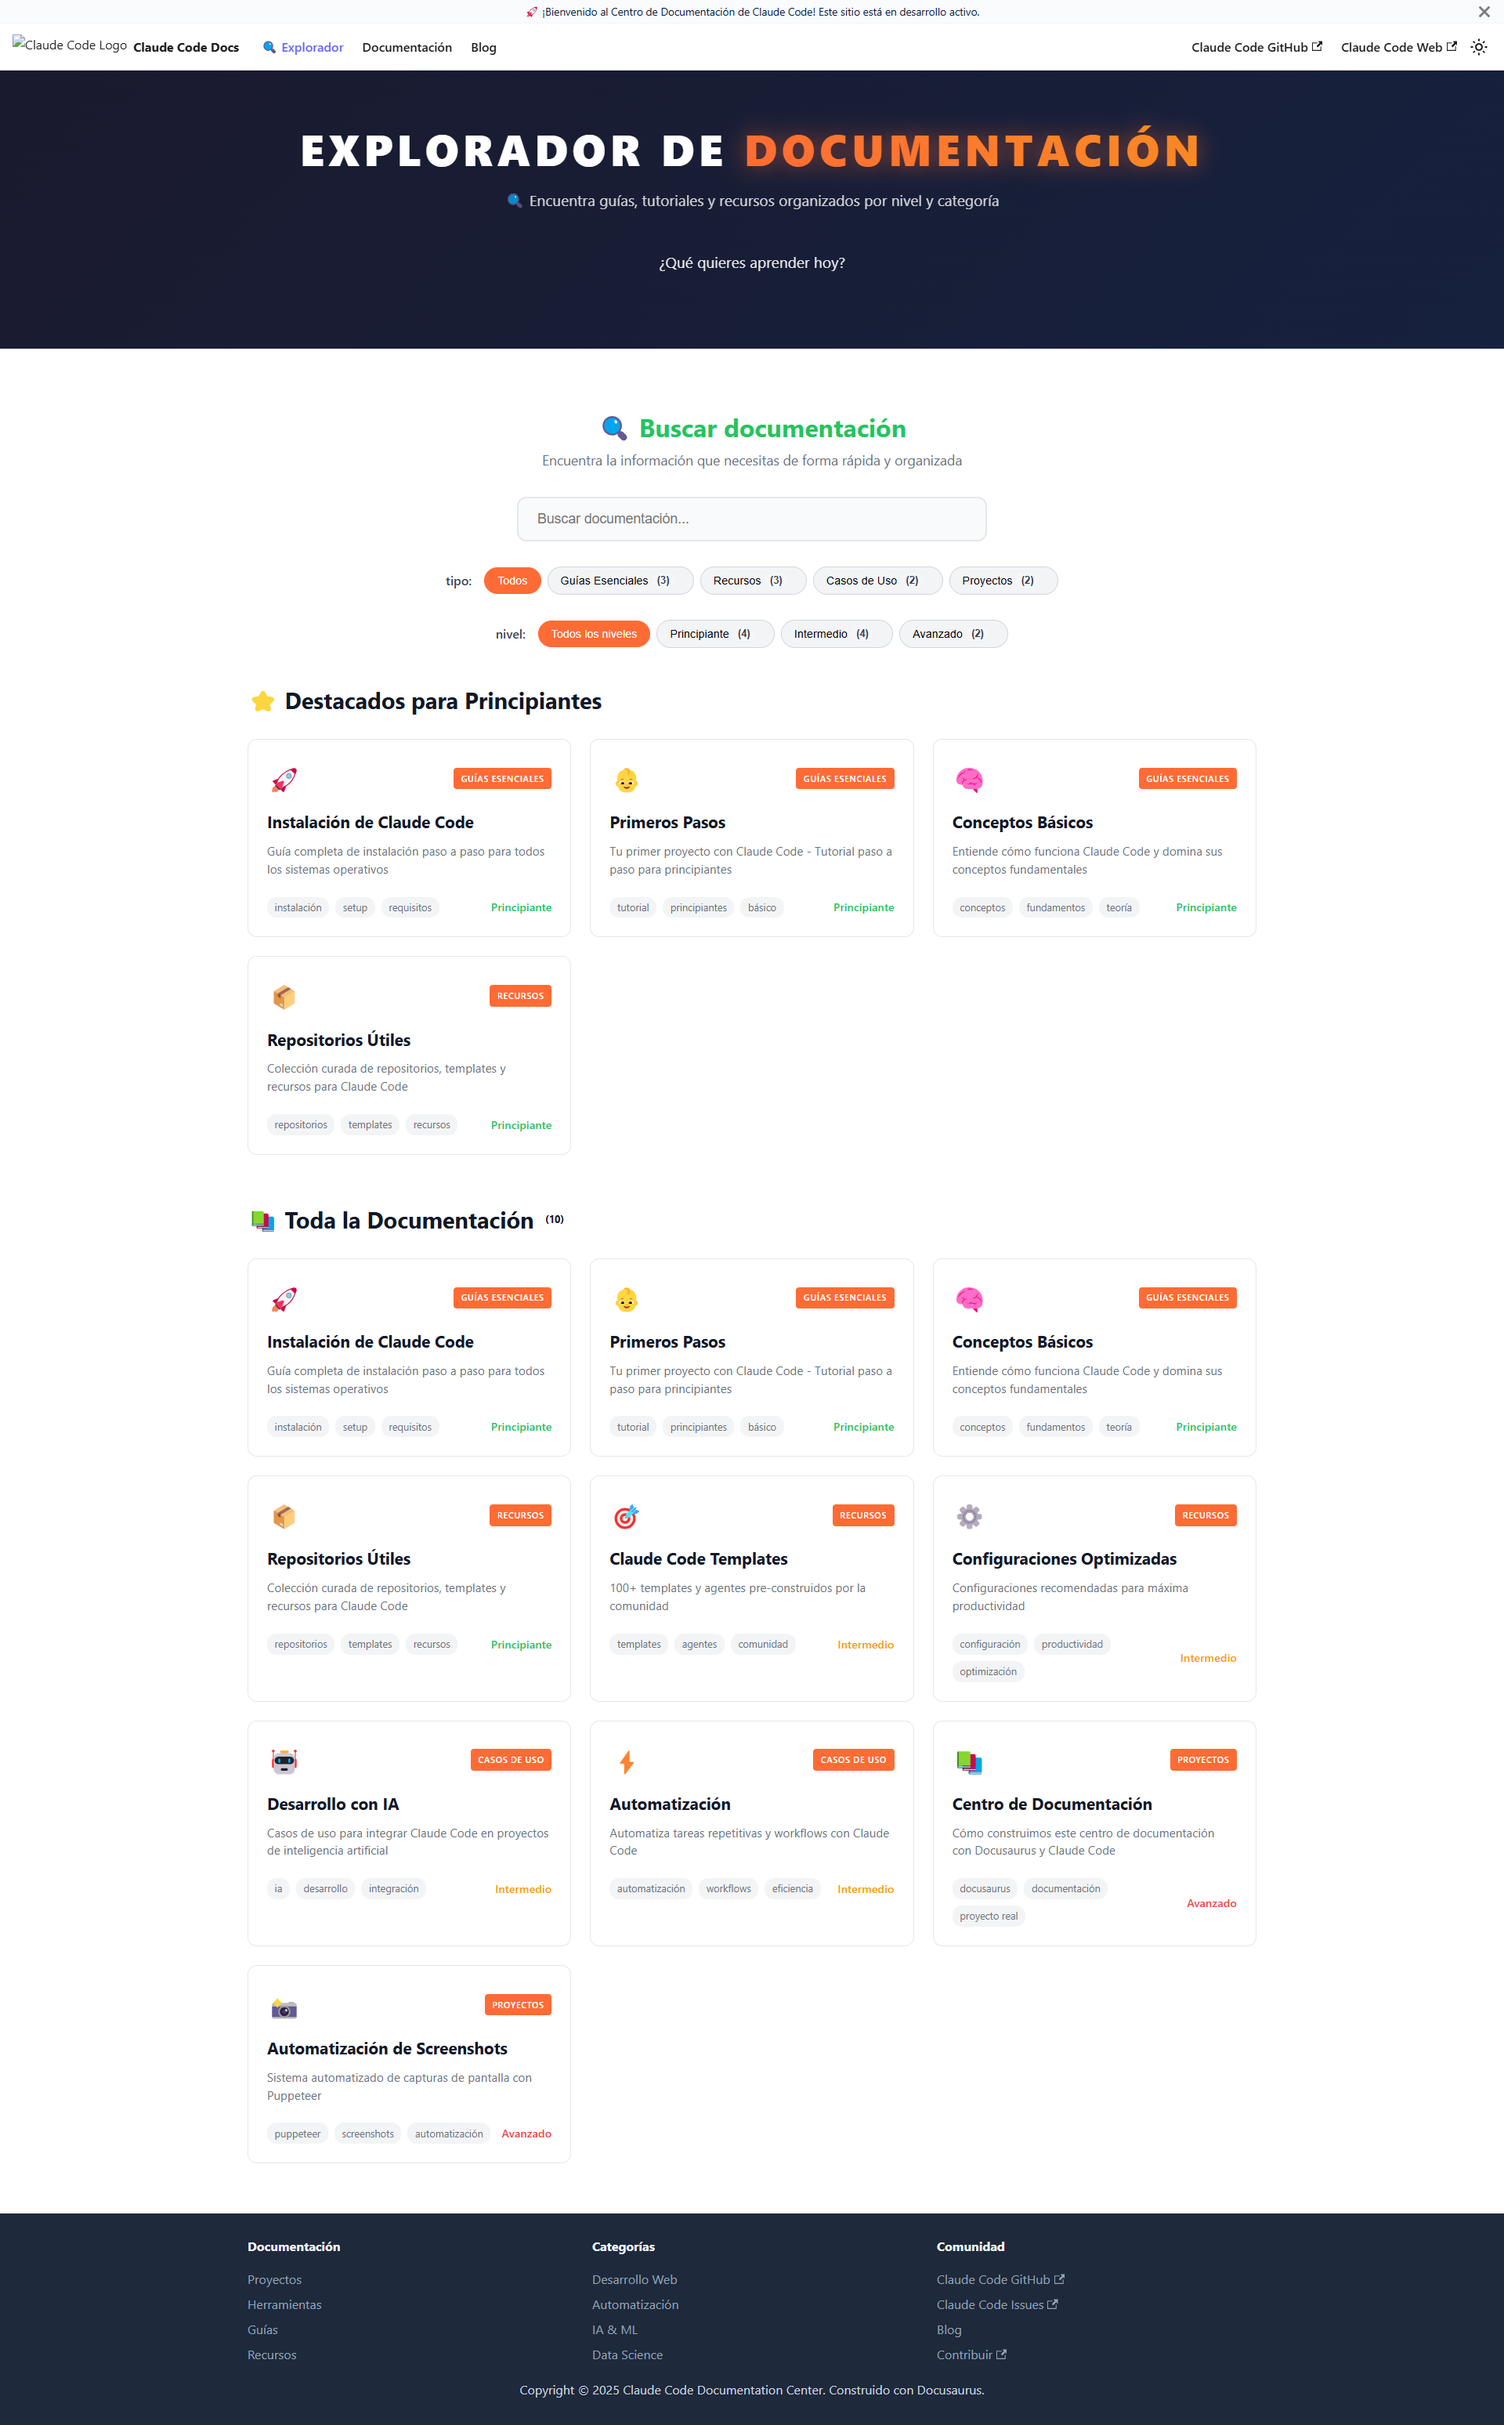
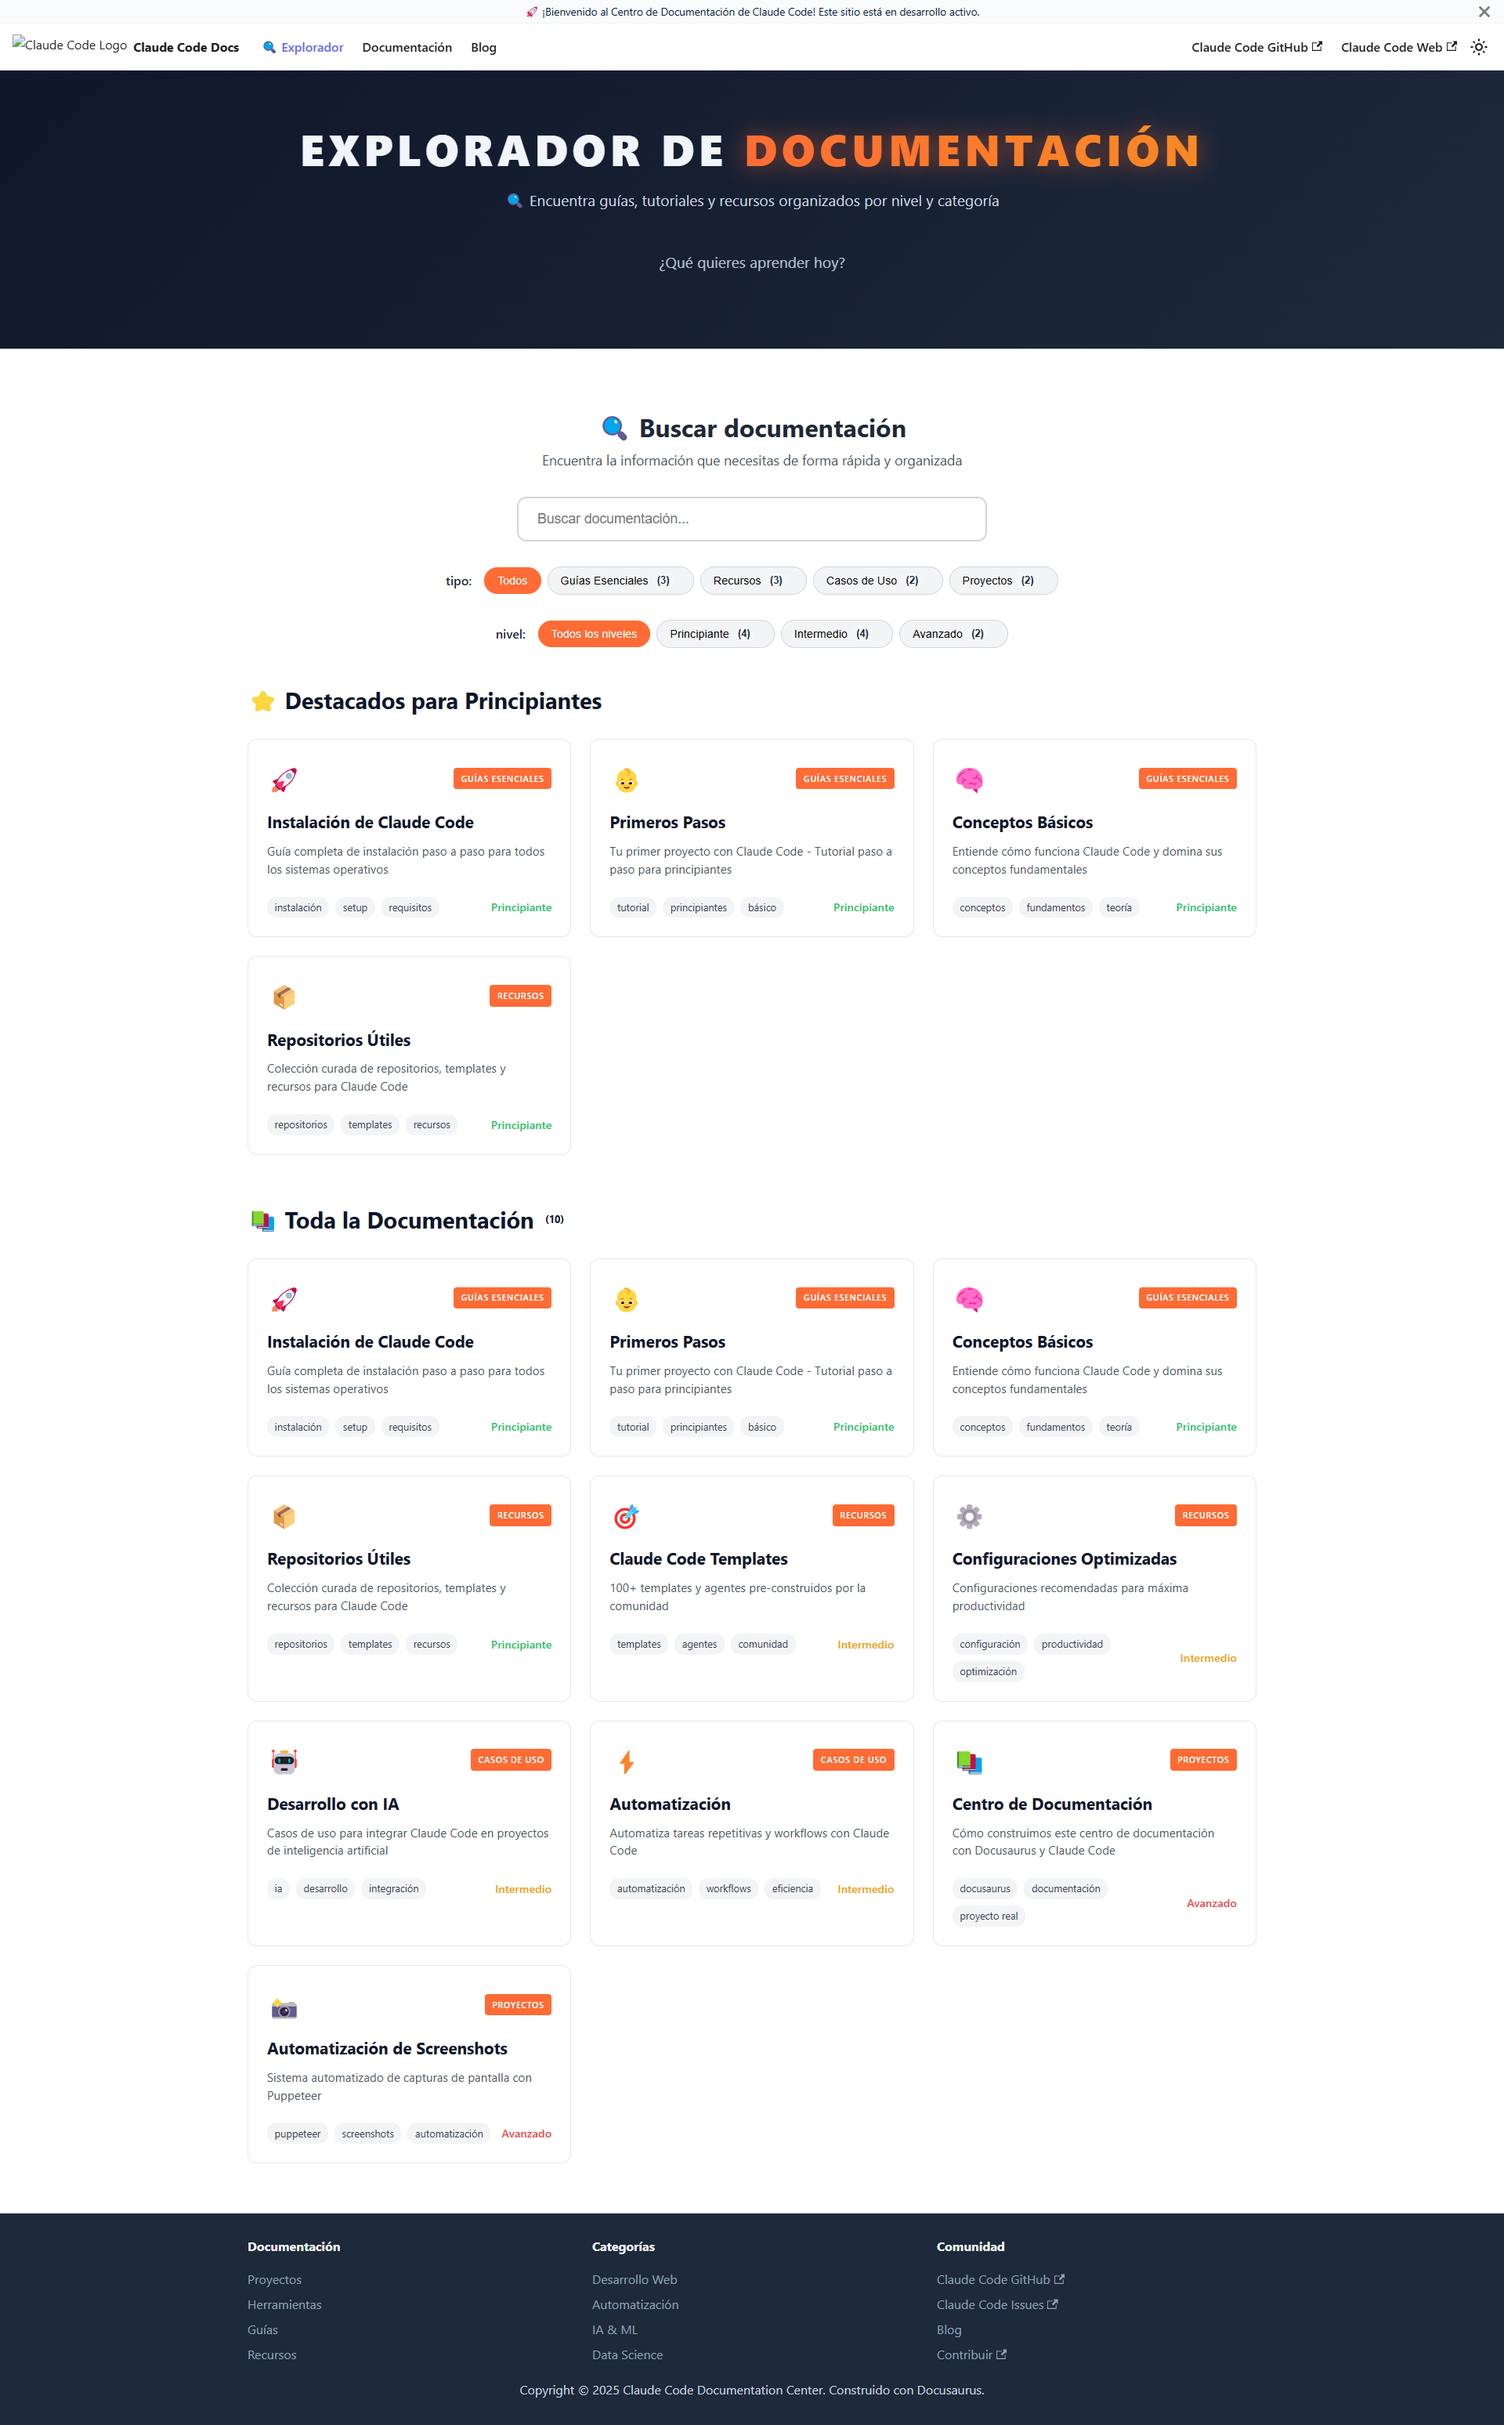
🎨 Fix explorador color consistency and contrast
## Mejoras Implementadas

### Esquema de Colores Consistente
- Cambiar hero section de azul marino a grises/negros consistentes
- Hero background: linear-gradient(135deg, #0f172a 0%, #1e293b 100%)
- Eliminar opacity en favor de colores específicos para mejor contraste

### Mejora de Contraste de Texto
- Headers principales: #1f2937 (más oscuro para mejor legibilidad)
- Texto descriptivo: #4b5563 (contraste WCAG AA+)
- Tags y elementos secundarios: #374151
- Hero subtitle: #cbd5e1 para consistencia con resto del sitio

### Soporte Dark Mode Completo
- Todos los elementos con estilos dark mode apropiados
- Consistent con la paleta slate del sitio
- Focus states mejorados para accesibilidad
- Cards con background #1e293b en dark mode

### Elementos Específicos Mejorados
- Search input con colors apropiados
- Filter buttons con better contrast
- Action cards en hero con colores consistentes
- Code blocks usando misma paleta que el resto del sitio

Ahora el explorador usa la misma paleta de colores que el footer
y resto del sitio (slate grays) en lugar de navy blues inconsistentes.

🤖 Generated with [Claude Code](https://claude.ai/code)

Changed region(s): [[0.5312, 0.1551, 0.5938, 0.1861], [0.4375, 0.1551, 0.4688, 0.1861]]

diff --git a/src/pages/explorer.module.css b/src/pages/explorer.module.css
@@ -1,7 +1,7 @@
 /* Hero Section */
 .hero {
-  background: linear-gradient(135deg, #1a1a2e 0%, #16213e 100%);
-  color: white;
+  background: linear-gradient(135deg, #0f172a 0%, #1e293b 100%);
+  color: #f1f5f9;
   padding: 4rem 0;
   margin-bottom: 2rem;
 }
@@ -29,7 +29,7 @@
 
 .heroSubtitle {
   font-size: 1.2rem;
-  opacity: 0.8;
+  color: #cbd5e1;
   margin-bottom: 3rem;
 }
 
@@ -41,12 +41,13 @@
 }
 
 .actionCard {
-  background: rgba(255, 255, 255, 0.1);
-  border: 1px solid rgba(255, 255, 255, 0.2);
+  background: rgba(30, 41, 59, 0.8);
+  border: 1px solid rgba(148, 163, 184, 0.2);
   border-radius: 12px;
   padding: 2rem;
   backdrop-filter: blur(10px);
   text-align: left;
+  color: #f1f5f9;
 }
 
 .stepNumber {
@@ -66,22 +67,24 @@
   font-size: 1.3rem;
   font-weight: 600;
   margin-bottom: 0.5rem;
+  color: #f1f5f9;
 }
 
 .actionCard p {
-  opacity: 0.8;
+  color: #cbd5e1;
   margin-bottom: 1rem;
   font-size: 0.9rem;
 }
 
 .codeBlock {
-  background: rgba(0, 0, 0, 0.3);
-  border: 1px solid rgba(255, 255, 255, 0.1);
+  background: #1e293b;
+  border: 1px solid #475569;
   border-radius: 8px;
   padding: 1rem;
   position: relative;
   font-family: 'Monaco', 'Menlo', 'Ubuntu Mono', monospace;
   font-size: 0.9rem;
+  color: #cbd5e1;
 }
 
 .copyBtn {
@@ -113,13 +116,17 @@
 }
 
 .comment {
-  color: #22c55e;
+  color: #10b981;
   margin-left: 1rem;
 }
 
 .searchPrompt {
   text-align: center;
   margin-top: 2rem;
+}
+
+.searchPrompt p {
+  color: #cbd5e1;
 }
 
 /* Search Section */
@@ -129,14 +136,14 @@
 }
 
 .searchHeader h2 {
-  color: #22c55e;
+  color: #1f2937;
   font-size: 2rem;
   font-weight: 700;
   margin-bottom: 0.5rem;
 }
 
 .searchHeader p {
-  color: #6b7280;
+  color: #4b5563;
   font-size: 1.1rem;
   margin-bottom: 2rem;
 }
@@ -149,18 +156,19 @@
 .searchInput {
   width: 100%;
   padding: 1rem 1.5rem;
-  border: 2px solid #e5e7eb;
+  border: 2px solid #d1d5db;
   border-radius: 12px;
   font-size: 1.1rem;
-  background: #f9fafb;
+  background: #ffffff;
+  color: #1f2937;
   transition: all 0.2s;
 }
 
 .searchInput:focus {
   outline: none;
-  border-color: #22c55e;
+  border-color: #6366f1;
   background: white;
-  box-shadow: 0 0 0 3px rgba(34, 197, 94, 0.1);
+  box-shadow: 0 0 0 3px rgba(99, 102, 241, 0.1);
 }
 
 /* Filters */
@@ -181,7 +189,7 @@
 
 .filterGroup span {
   font-weight: 600;
-  color: #374151;
+  color: #1f2937;
   margin-right: 0.5rem;
 }
 
@@ -229,7 +237,7 @@
 .sectionTitle {
   font-size: 1.8rem;
   font-weight: 700;
-  color: #111827;
+  color: #0f172a;
   margin-bottom: 2rem;
   display: flex;
   align-items: center;
@@ -288,13 +296,13 @@
 .cardTitle {
   font-size: 1.3rem;
   font-weight: 700;
-  color: #111827;
+  color: #0f172a;
   margin-bottom: 0.8rem;
   line-height: 1.3;
 }
 
 .cardDescription {
-  color: #6b7280;
+  color: #4b5563;
   font-size: 0.95rem;
   line-height: 1.5;
   margin-bottom: 1.5rem;
@@ -316,7 +324,7 @@
 
 .tag {
   background: #f3f4f6;
-  color: #6b7280;
+  color: #374151;
   padding: 0.2rem 0.6rem;
   border-radius: 12px;
   font-size: 0.8rem;
@@ -330,7 +338,7 @@
 /* No Results */
 .noResults {
   text-align: center;
-  color: #6b7280;
+  color: #4b5563;
   font-size: 1.1rem;
   margin: 4rem 0;
 }
@@ -382,4 +390,74 @@
     padding: 1rem;
     font-size: 1rem;
   }
+}
+
+/* Dark mode support */
+[data-theme='dark'] .hero {
+  background: linear-gradient(135deg, #0f172a 0%, #1e293b 100%);
+}
+
+[data-theme='dark'] .searchHeader h2 {
+  color: #f1f5f9;
+}
+
+[data-theme='dark'] .searchHeader p {
+  color: #cbd5e1;
+}
+
+[data-theme='dark'] .searchInput {
+  background: #1e293b;
+  color: #f1f5f9;
+  border-color: #475569;
+}
+
+[data-theme='dark'] .searchInput:focus {
+  border-color: #818cf8;
+  box-shadow: 0 0 0 3px rgba(129, 140, 248, 0.2);
+}
+
+[data-theme='dark'] .filterGroup span {
+  color: #f1f5f9;
+}
+
+[data-theme='dark'] .filterBtn {
+  background: #374151;
+  border-color: #4b5563;
+  color: #e5e7eb;
+}
+
+[data-theme='dark'] .filterBtn:hover {
+  background: #4b5563;
+  border-color: #6b7280;
+}
+
+[data-theme='dark'] .sectionTitle {
+  color: #f1f5f9;
+}
+
+[data-theme='dark'] .docCard {
+  background: #1e293b;
+  border-color: #374151;
+}
+
+[data-theme='dark'] .docCard:hover {
+  border-color: #ff6b35;
+  box-shadow: 0 8px 25px rgba(255, 107, 53, 0.2);
+}
+
+[data-theme='dark'] .cardTitle {
+  color: #f1f5f9;
+}
+
+[data-theme='dark'] .cardDescription {
+  color: #cbd5e1;
+}
+
+[data-theme='dark'] .tag {
+  background: #374151;
+  color: #cbd5e1;
+}
+
+[data-theme='dark'] .noResults {
+  color: #cbd5e1;
 }
